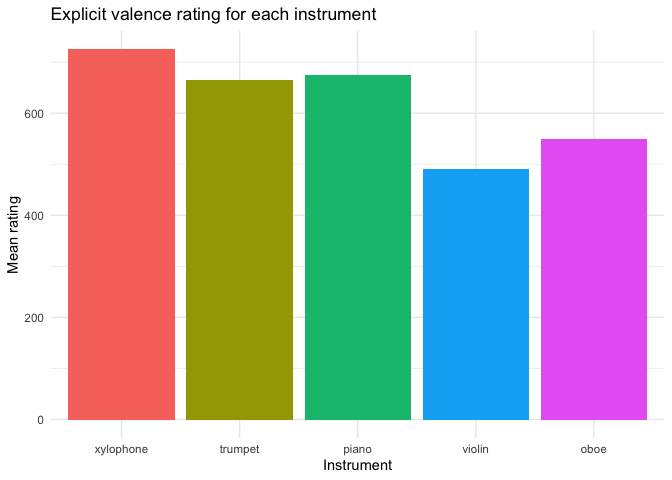
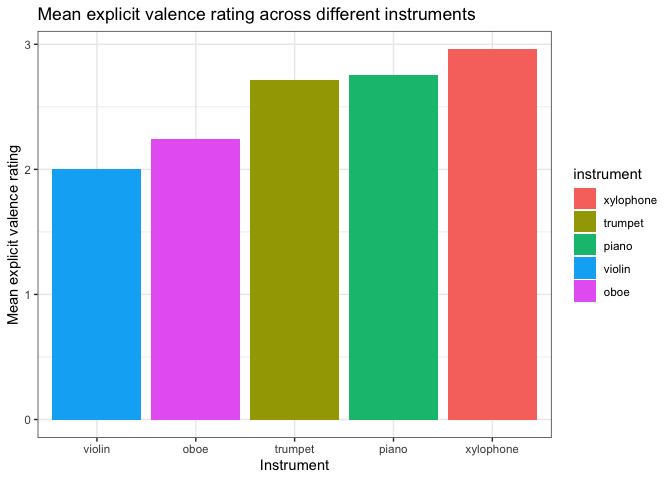
added visualizations to readme

diff --git a/README.md b/README.md
@@ -1,62 +1,120 @@
-# Thesis Tonality Categorization
-
+MA Thesis: Effect of Instrument Timbre on Tonality Perception
+================
 Eva Wu
 
-Advisors: Dr. Howard Nusbaum & Dr. Stephen Van Hedger
+Advisors: Dr. Howard Nusbaum & Dr. Stephen Van Hedger
 
-## Hypothesis 
+``` r
+library(tidyverse)
+```
 
-“Happy” instruments would make people more prone to identify the chord as major, 
-while “sad” instruments might make people more prone to identify the chord as minor.
+    ## ── Attaching packages ─────────────────────────────────────── tidyverse 1.3.2 ──
+    ## ✔ ggplot2 3.3.6      ✔ purrr   0.3.4 
+    ## ✔ tibble  3.1.8      ✔ dplyr   1.0.10
+    ## ✔ tidyr   1.2.1      ✔ stringr 1.4.1 
+    ## ✔ readr   2.1.2      ✔ forcats 0.5.2 
+    ## ── Conflicts ────────────────────────────────────────── tidyverse_conflicts() ──
+    ## ✖ dplyr::filter() masks stats::filter()
+    ## ✖ dplyr::lag()    masks stats::lag()
 
-## Exploratory research questions 
+``` r
+library(ggtext)
+library(ggsignif) # label ggplot
+knitr::opts_chunk$set(echo = FALSE, warning = FALSE, message = FALSE)
+all <- read_csv("all.csv")
+```
 
-1) Association between timbre and tonality judgment 
+    ## Rows: 1225 Columns: 51
+    ## ── Column specification ────────────────────────────────────────────────────────
+    ## Delimiter: ","
+    ## chr (13): instrument, chord, participant, Gender, Year, Year_6_TEXT, Major, ...
+    ## dbl (38): qualtrics_id, tuning_step, pct_maj, explicit_rtg, passed_practice,...
+    ## 
+    ## ℹ Use `spec()` to retrieve the full column specification for this data.
+    ## ℹ Specify the column types or set `show_col_types = FALSE` to quiet this message.
 
-2) Association between timbre and explicit ratings of instrument valence
+## Hypothesis
 
-3) Association between tonality judgment and explicit ratings of instrument valence
+“Happy” instruments would make people more prone to identify the chord
+as major, while “sad” instruments would make people more prone to
+identify the chord as minor.
 
-4) Association between musical background and tonality judgment and/or explicit ratings of instrument valence
+## Research questions
+
+1)  Association between instrument timbre and tonality judgment
+
+2)  How timbre interacts and tuning step affect tonality judgment
+
+3)  Association between timbre and explicit ratings of instrument
+    valence
+
+4)  Association between tonality judgment and explicit ratings of
+    instrument valence
+
+5)  Association between musical background/key and tonality judgment
+    and/or explicit ratings of instrument valence
 
 ## Design
 
-* IV1 (w/in-subject): instrument (happy [xylophone, trumpet] vs. neutral [piano] vs. sad [oboe, violin]) 
+-   IV1 (w/in-subject): instrument (happy \[xylophone, trumpet\]
+    vs. neutral \[piano\] vs. sad \[oboe, violin\])
 
-* IV2 (w/in-subject): tuning of middle note (5 levels, ranging from absolute minor to absolute major)
+-   IV2 (w/in-subject): tuning of middle note (5 levels, ranging from
+    absolute minor to absolute major)
 
-* IV3 (b/w-subject): key (B vs. C) (to find out absolute-pitch-related effects)
+-   IV3 (b/w-subject): key (B vs. C) (to find out absolute-pitch-related
+    effects)
 
-* DV: the likelihood that one categorizes a chord as major/minor 
+-   DV: the likelihood that one categorizes a chord as major/minor
 
 ## Procedure
 
-* Pt 1 Sound calibration & headphone test (choose the quietest sound among 3)
+-   Pt 1 Sound calibration & headphone test (choose the quietest sound
+    among 3)
 
-* Pt 2 Training (press the buttons to listen to the chords, practice w/ feedback) + 
-testing phase (listen to 12 chords and choose b/w major and minor for each, need to correctly answer 8 to pass)
+-   Pt 2 Training (press the buttons to listen to the chords, practice
+    w/ feedback) + testing phase (listen to 12 chords and choose b/w
+    major and minor for each, need to correctly answer 8 to pass)
 
-* only analyze the response of those who pass the assessment w/in 2 tries
+-   only analyzed the response of those who passed the assessment w/in 2
+    tries
 
-* Pt 3 Categorization task (jspsych) - listen to 4 blocks of 70 chords and choose b/w major and minor for each chord; 
-explicit rating of instrument valence at the end
+-   Pt 3 Categorization task (jspsych) - listen to 4 blocks of 70 chords
+    and choose b/w major and minor for each chord; explicit rating of
+    instrument valence at the end
 
-* Pt 4 Questionnaires (demographics & music experience; Qualtrics)
+-   Pt 4 Questionnaires (demographics & music experience; Qualtrics)
+
+## Main Findings
+
+![](README_files/figure-gfm/viz1-1.png)<!-- -->![](README_files/figure-gfm/viz1-2.png)<!-- -->
+
+![](README_files/figure-gfm/viz2-1.png)<!-- -->
+
+![](README_files/figure-gfm/viz3-1.png)<!-- -->
+
+![](README_files/figure-gfm/viz4-1.png)<!-- -->
 
 ## File directory
 
-* [cancatenate.md](cancatenate.Rmd): concatenate raw data into 1 csv - by Steve
+-   [cancatenate.md](cancatenate.md): concatenate raw data into 1 csv -
+    by Steve
 
-* [instcat-analysis.md](instcat-analysis.Rmd): GLM analyses - by Steve
+-   [instcat-analysis.md](instcat-analysis.md): GLM analyses - by Steve
 
-* [data_cleaning.md](data_cleaning.md): data cleaning and wrangling & pre-analysis exploratory graphs - by Eva
+-   [data_cleaning.md](data_cleaning.md): data cleaning and wrangling &
+    pre-analysis exploratory graphs - by Eva
 
-* [eva_analyses.md](eva_analyses.md): ANOVA of mean categorization and rating across instruments & tuning step - by Eva
+-   [eva_analyses.md](eva_analyses.md): ANOVA of mean categorization and
+    rating across instruments & tuning step - by Eva
 
-* [slope_crossover.md](slope_crossover.md): ANOVA of each individual's regression slope and 50% crossover point - by Eva
+-   [slope_crossover.md](slope_crossover.md): ANOVA of each individual’s
+    regression slope and 50% crossover point - by Eva
 
-* [inst-cat-uc-1.csv](inst-cat-uc-1.csv): raw jspsych data concatenated into one csv file
+-   [inst-cat-uc-1.csv](inst-cat-uc-1.csv): raw jspsych data
+    concatenated into one csv file
 
-* [all.csv](all.csv): cleaned data with jspsych and demographics (qualtrics) combined
+-   [all.csv](all.csv): cleaned data with jspsych and demographics
+    (qualtrics) combined
 
-* [demo_test.csv](demo_test.csv): cleaned data with demographics only
+-   [demo_test.csv](demo_test.csv): cleaned data with demographics only

diff --git a/eva_analyses.md b/eva_analyses.md
@@ -1,7 +1,7 @@
 Eva Analyses
 ================
 Eva Wu
-2022-09-12
+2022-09-13
 
 In this document, I first presented summary statistics for some
 demographics variables. Then, I checked ANOVA assumptions. After that, I
